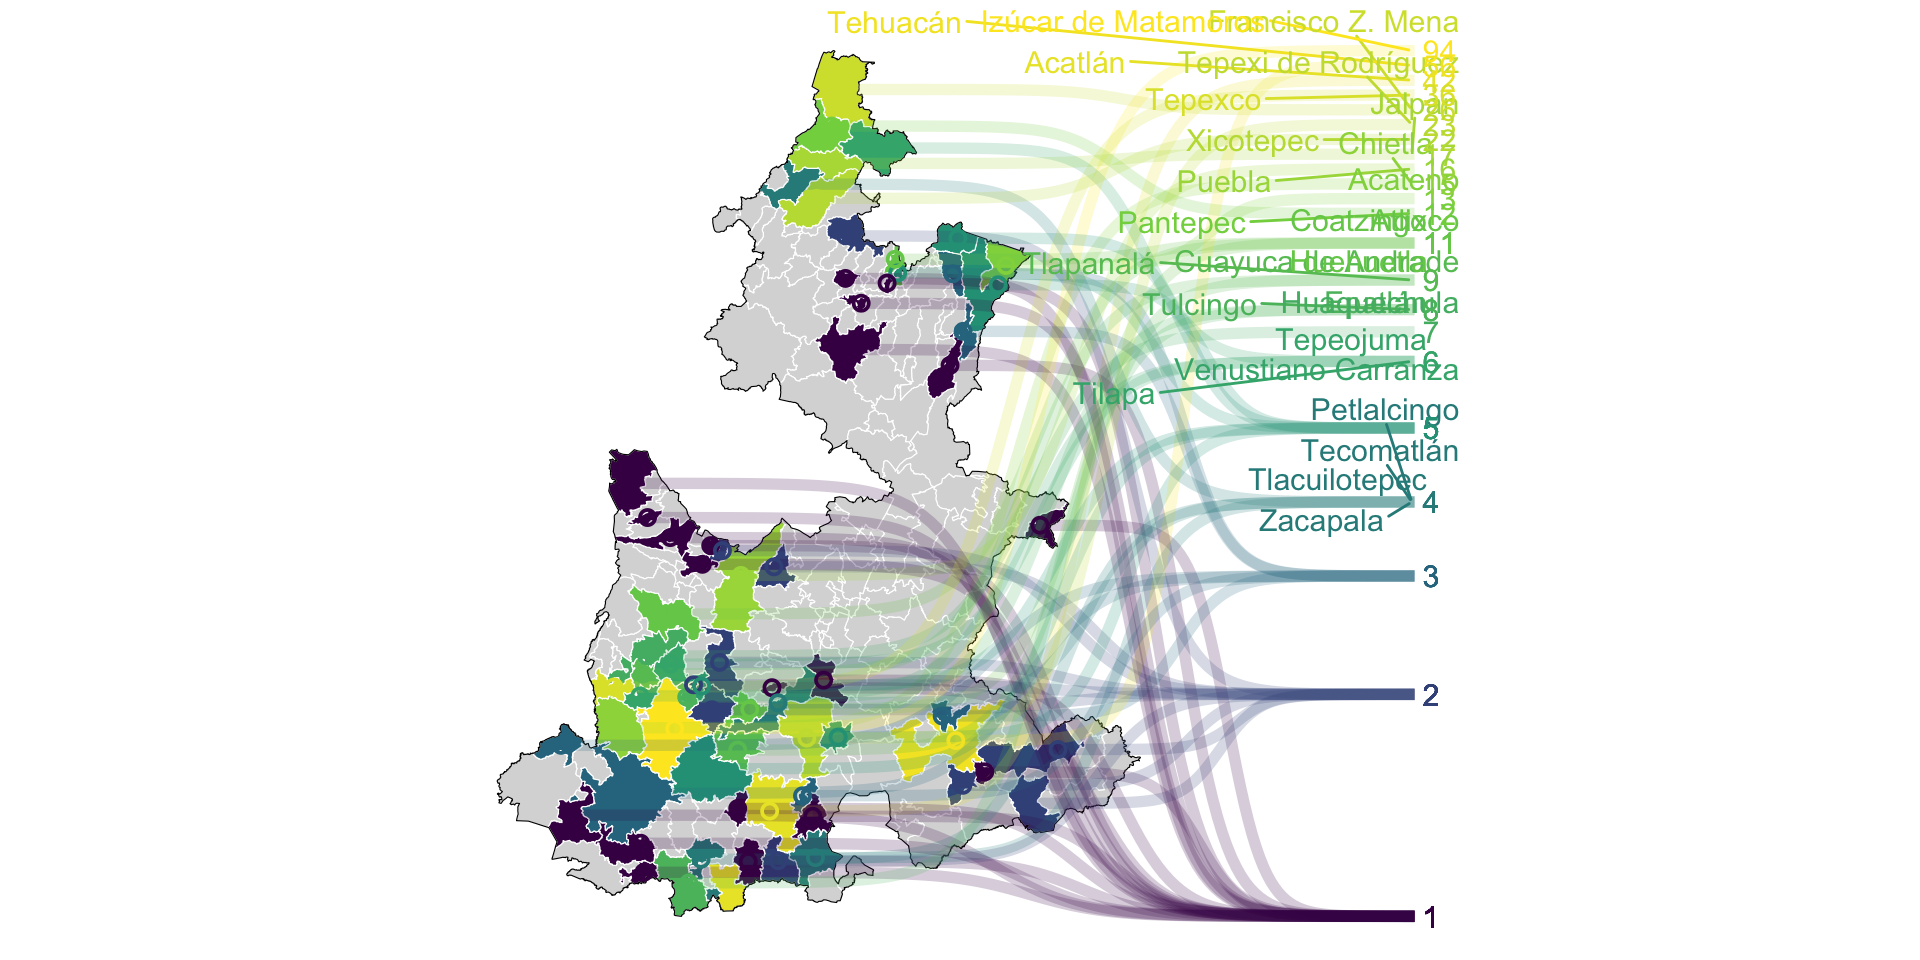
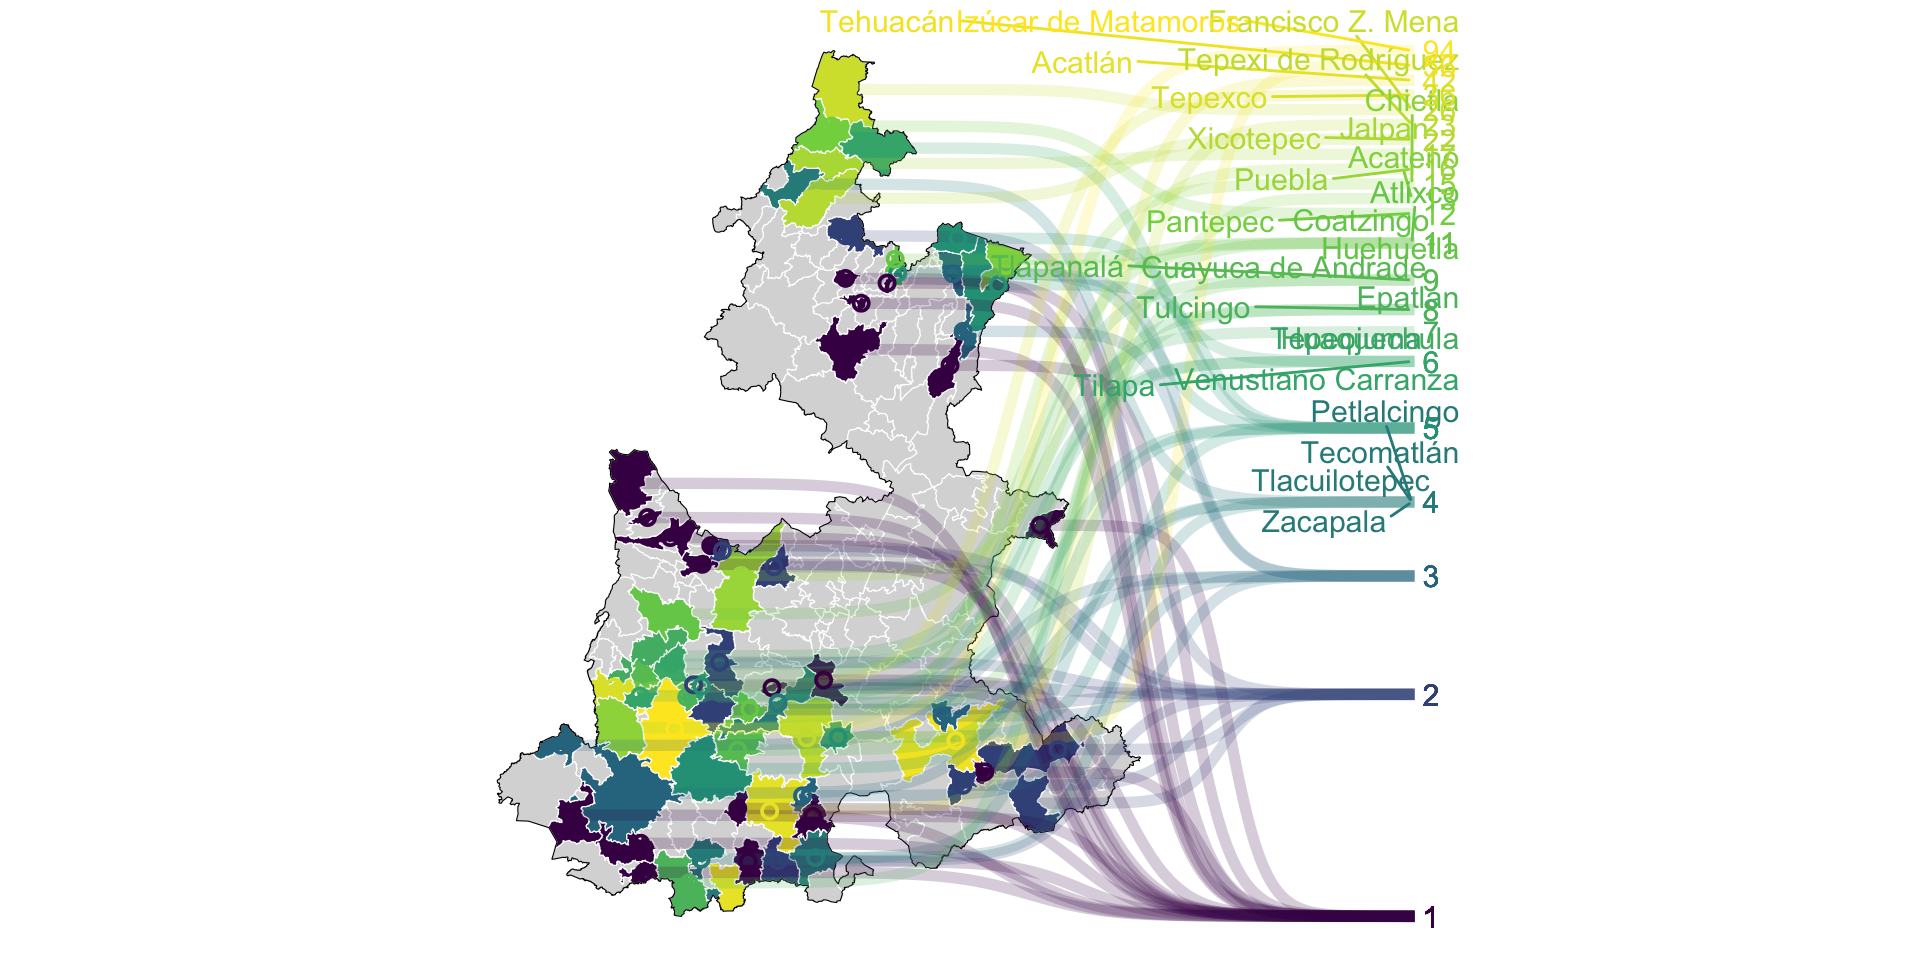
This commit update the talk

Changed region(s): [[0.4062, 0.0, 0.7812, 0.5625]]

diff --git a/mia/21_puebla/index.html b/mia/21_puebla/index.html
@@ -358,6 +358,15 @@ Update: 2023-09-14
 <hr style="height:2px;border-width:0;color:#330019;background-color:#330019">
 
 <img data-src="index_files/figure-revealjs/unnamed-chunk-1-1.png" width="960" class="r-stretch"></section>
+<section id="transmisión-activa-puebla" class="slide level2">
+<h2><span style="color:#003300">Transmisión Activa Puebla</span></h2>
+<hr style="height:2px;border-width:0;color:#330019;background-color:#330019">
+<div class="cell">
+<div class="cell-output-display">
+<p><img data-src="index_files/figure-revealjs/risk_escenario_actual_puebla-1.png" style="width:100.0%;height:100.0%"></p>
+</div>
+</div>
+</section>
 <section id="transmisión-activa-izucar" class="slide level2">
 <h2><span style="color:#003300">Transmisión Activa Izucar</span></h2>
 <hr style="height:2px;border-width:0;color:#330019;background-color:#330019">
@@ -403,12 +412,39 @@ Update: 2023-09-14
 </div>
 </div>
 </section>
-<section id="transmisión-activa-puebla" class="slide level2">
-<h2><span style="color:#003300">Transmisión Activa Puebla</span></h2>
+<section id="transmisión-tepexí-de-rodríguez" class="slide level2">
+<h2><span style="color:#003300">Transmisión Tepexí de Rodríguez</span></h2>
 <hr style="height:2px;border-width:0;color:#330019;background-color:#330019">
 <div class="cell">
 <div class="cell-output-display">
-<p><img data-src="index_files/figure-revealjs/risk_escenario_actual_puebla-1.png" style="width:100.0%;height:100.0%"></p>
+<p><img data-src="index_files/figure-revealjs/risk_escenario_actual_tepexi-1.png" style="width:100.0%;height:100.0%"></p>
+</div>
+</div>
+</section>
+<section id="transmisión-tepexco" class="slide level2">
+<h2><span style="color:#003300">Transmisión Tepexco</span></h2>
+<hr style="height:2px;border-width:0;color:#330019;background-color:#330019">
+<div class="cell">
+<div class="cell-output-display">
+<p><img data-src="index_files/figure-revealjs/risk_escenario_actual_tepexco-1.png" style="width:100.0%;height:100.0%"></p>
+</div>
+</div>
+</section>
+<section id="transmisión-jalpan" class="slide level2">
+<h2><span style="color:#003300">Transmisión Jalpan</span></h2>
+<hr style="height:2px;border-width:0;color:#330019;background-color:#330019">
+<div class="cell">
+<div class="cell-output-display">
+<p><img data-src="index_files/figure-revealjs/risk_escenario_actual_jalpan-1.png" style="width:100.0%;height:100.0%"></p>
+</div>
+</div>
+</section>
+<section id="transmisión-jalpan-1" class="slide level2">
+<h2><span style="color:#003300">Transmisión Jalpan</span></h2>
+<hr style="height:2px;border-width:0;color:#330019;background-color:#330019">
+<div class="cell">
+<div class="cell-output-display">
+<p><img data-src="index_files/figure-revealjs/risk_escenario_actual_xicotepec-1.png" style="width:100.0%;height:100.0%"></p>
 </div>
 </div>
 </section>
